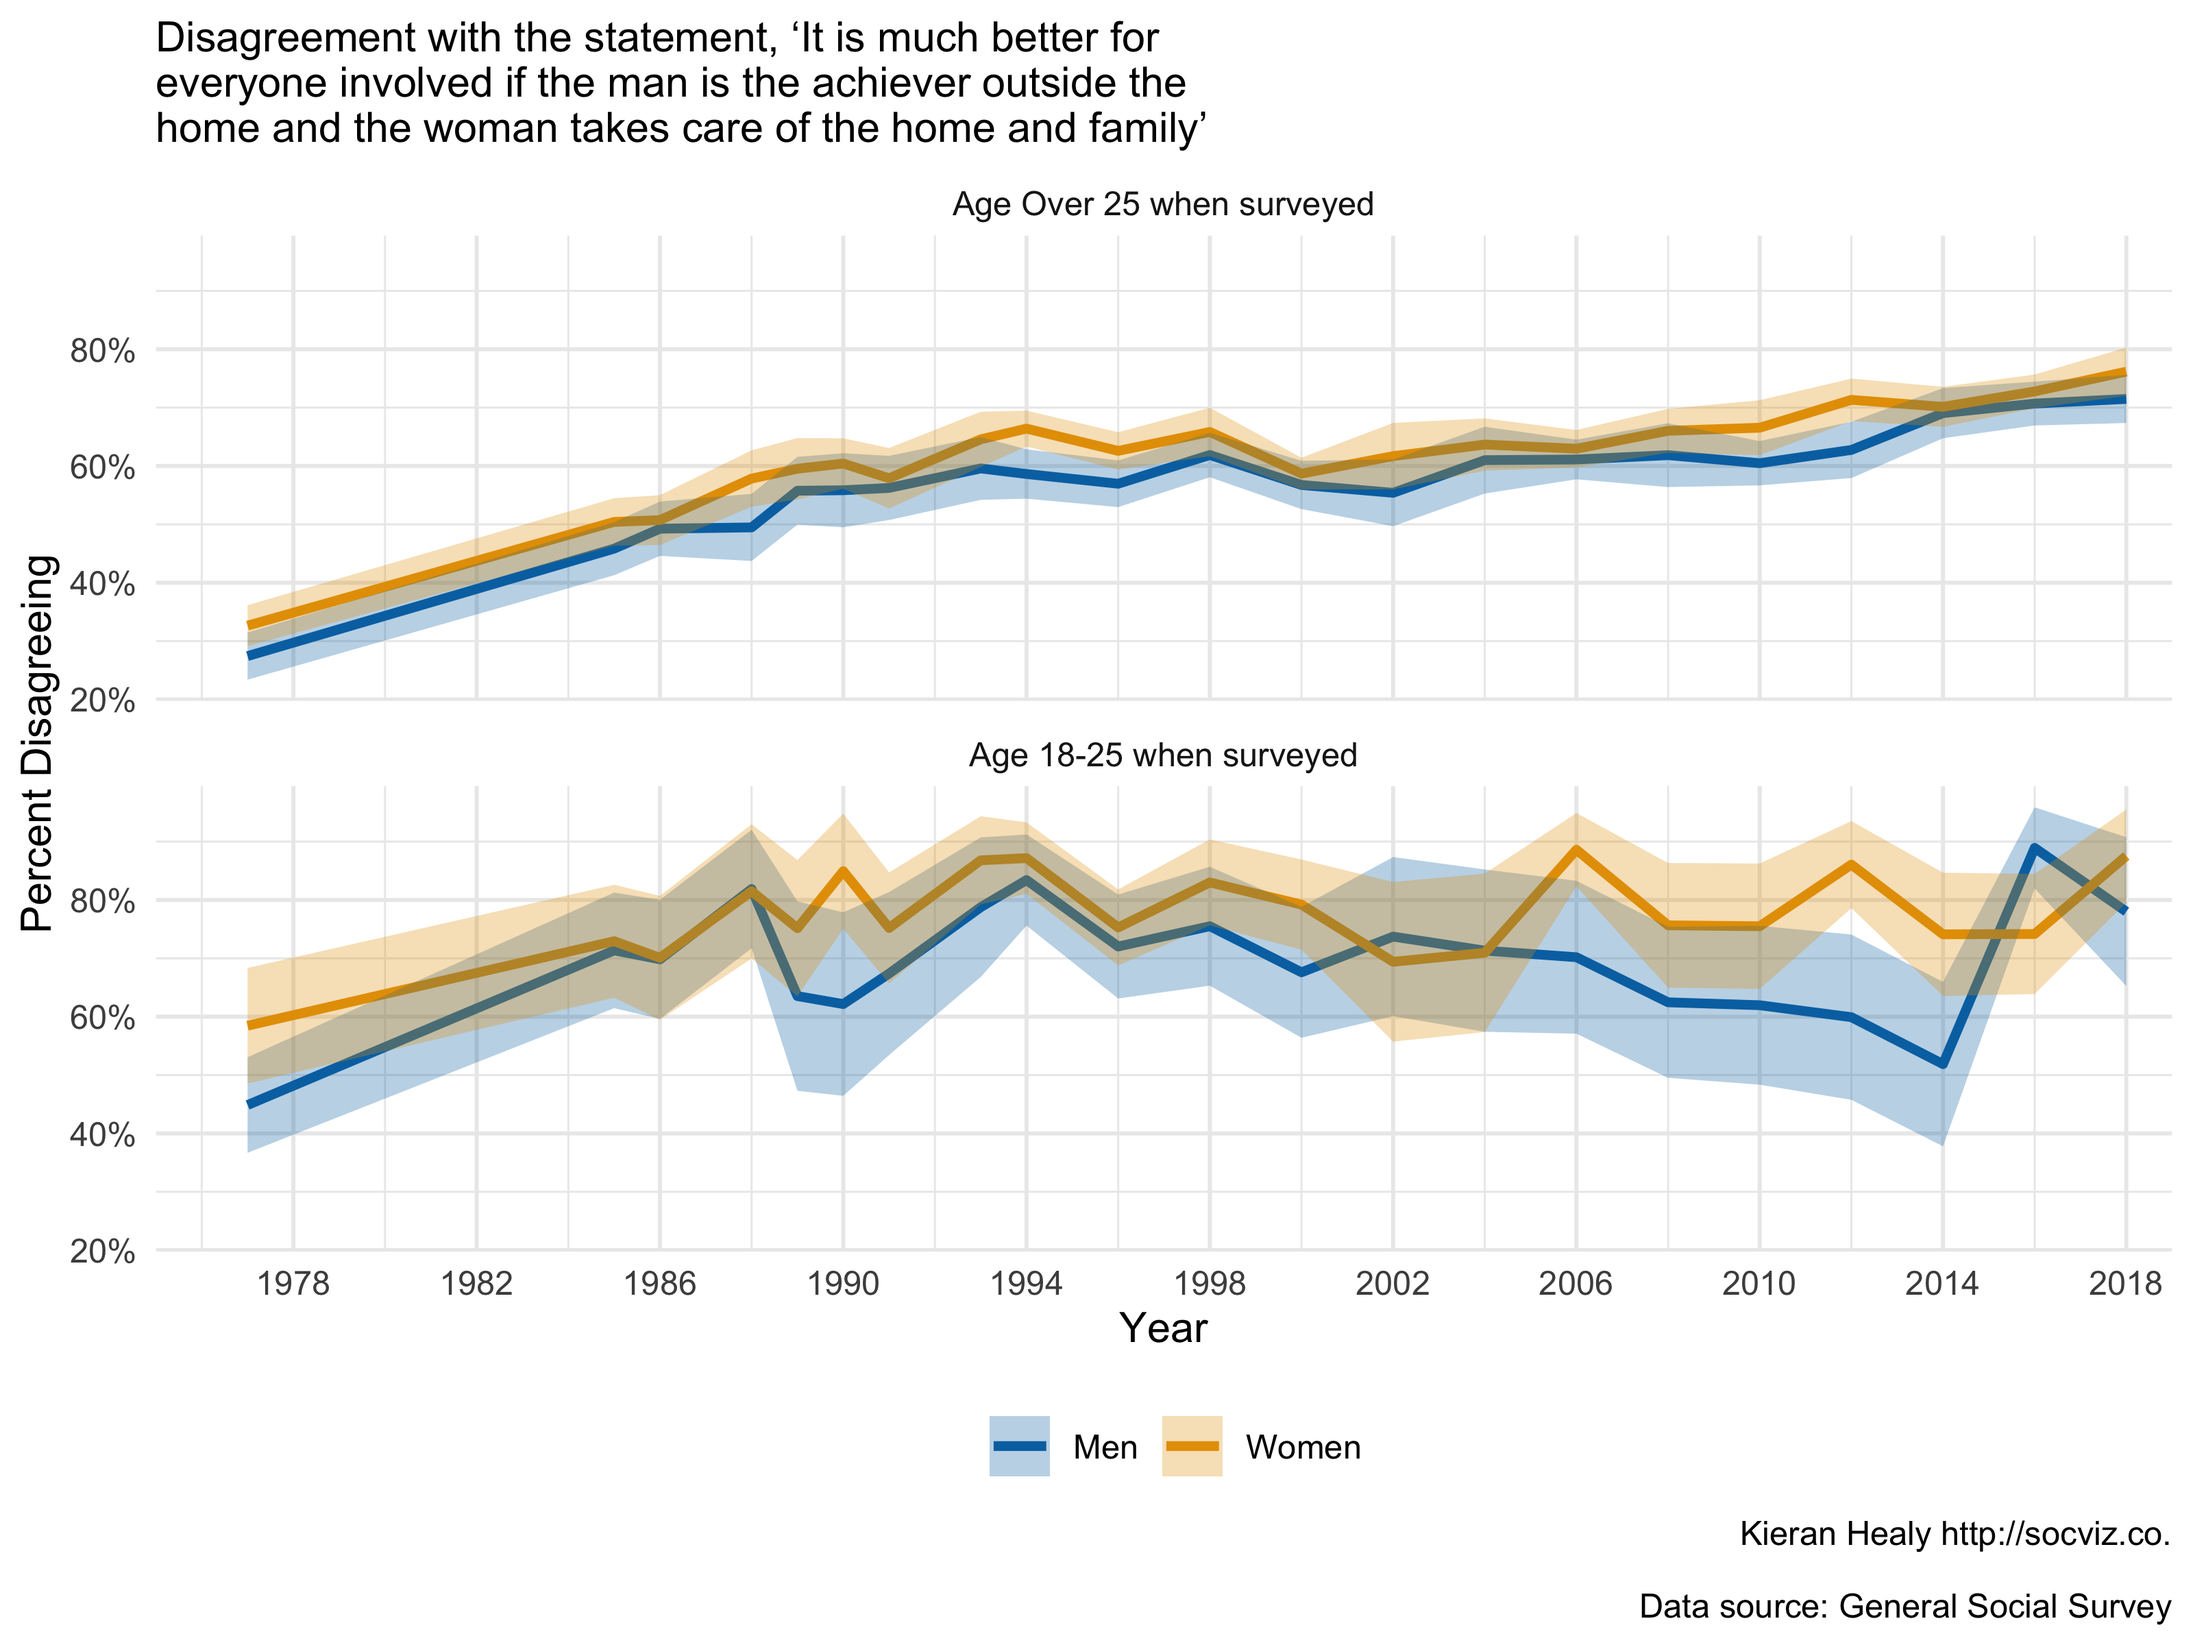
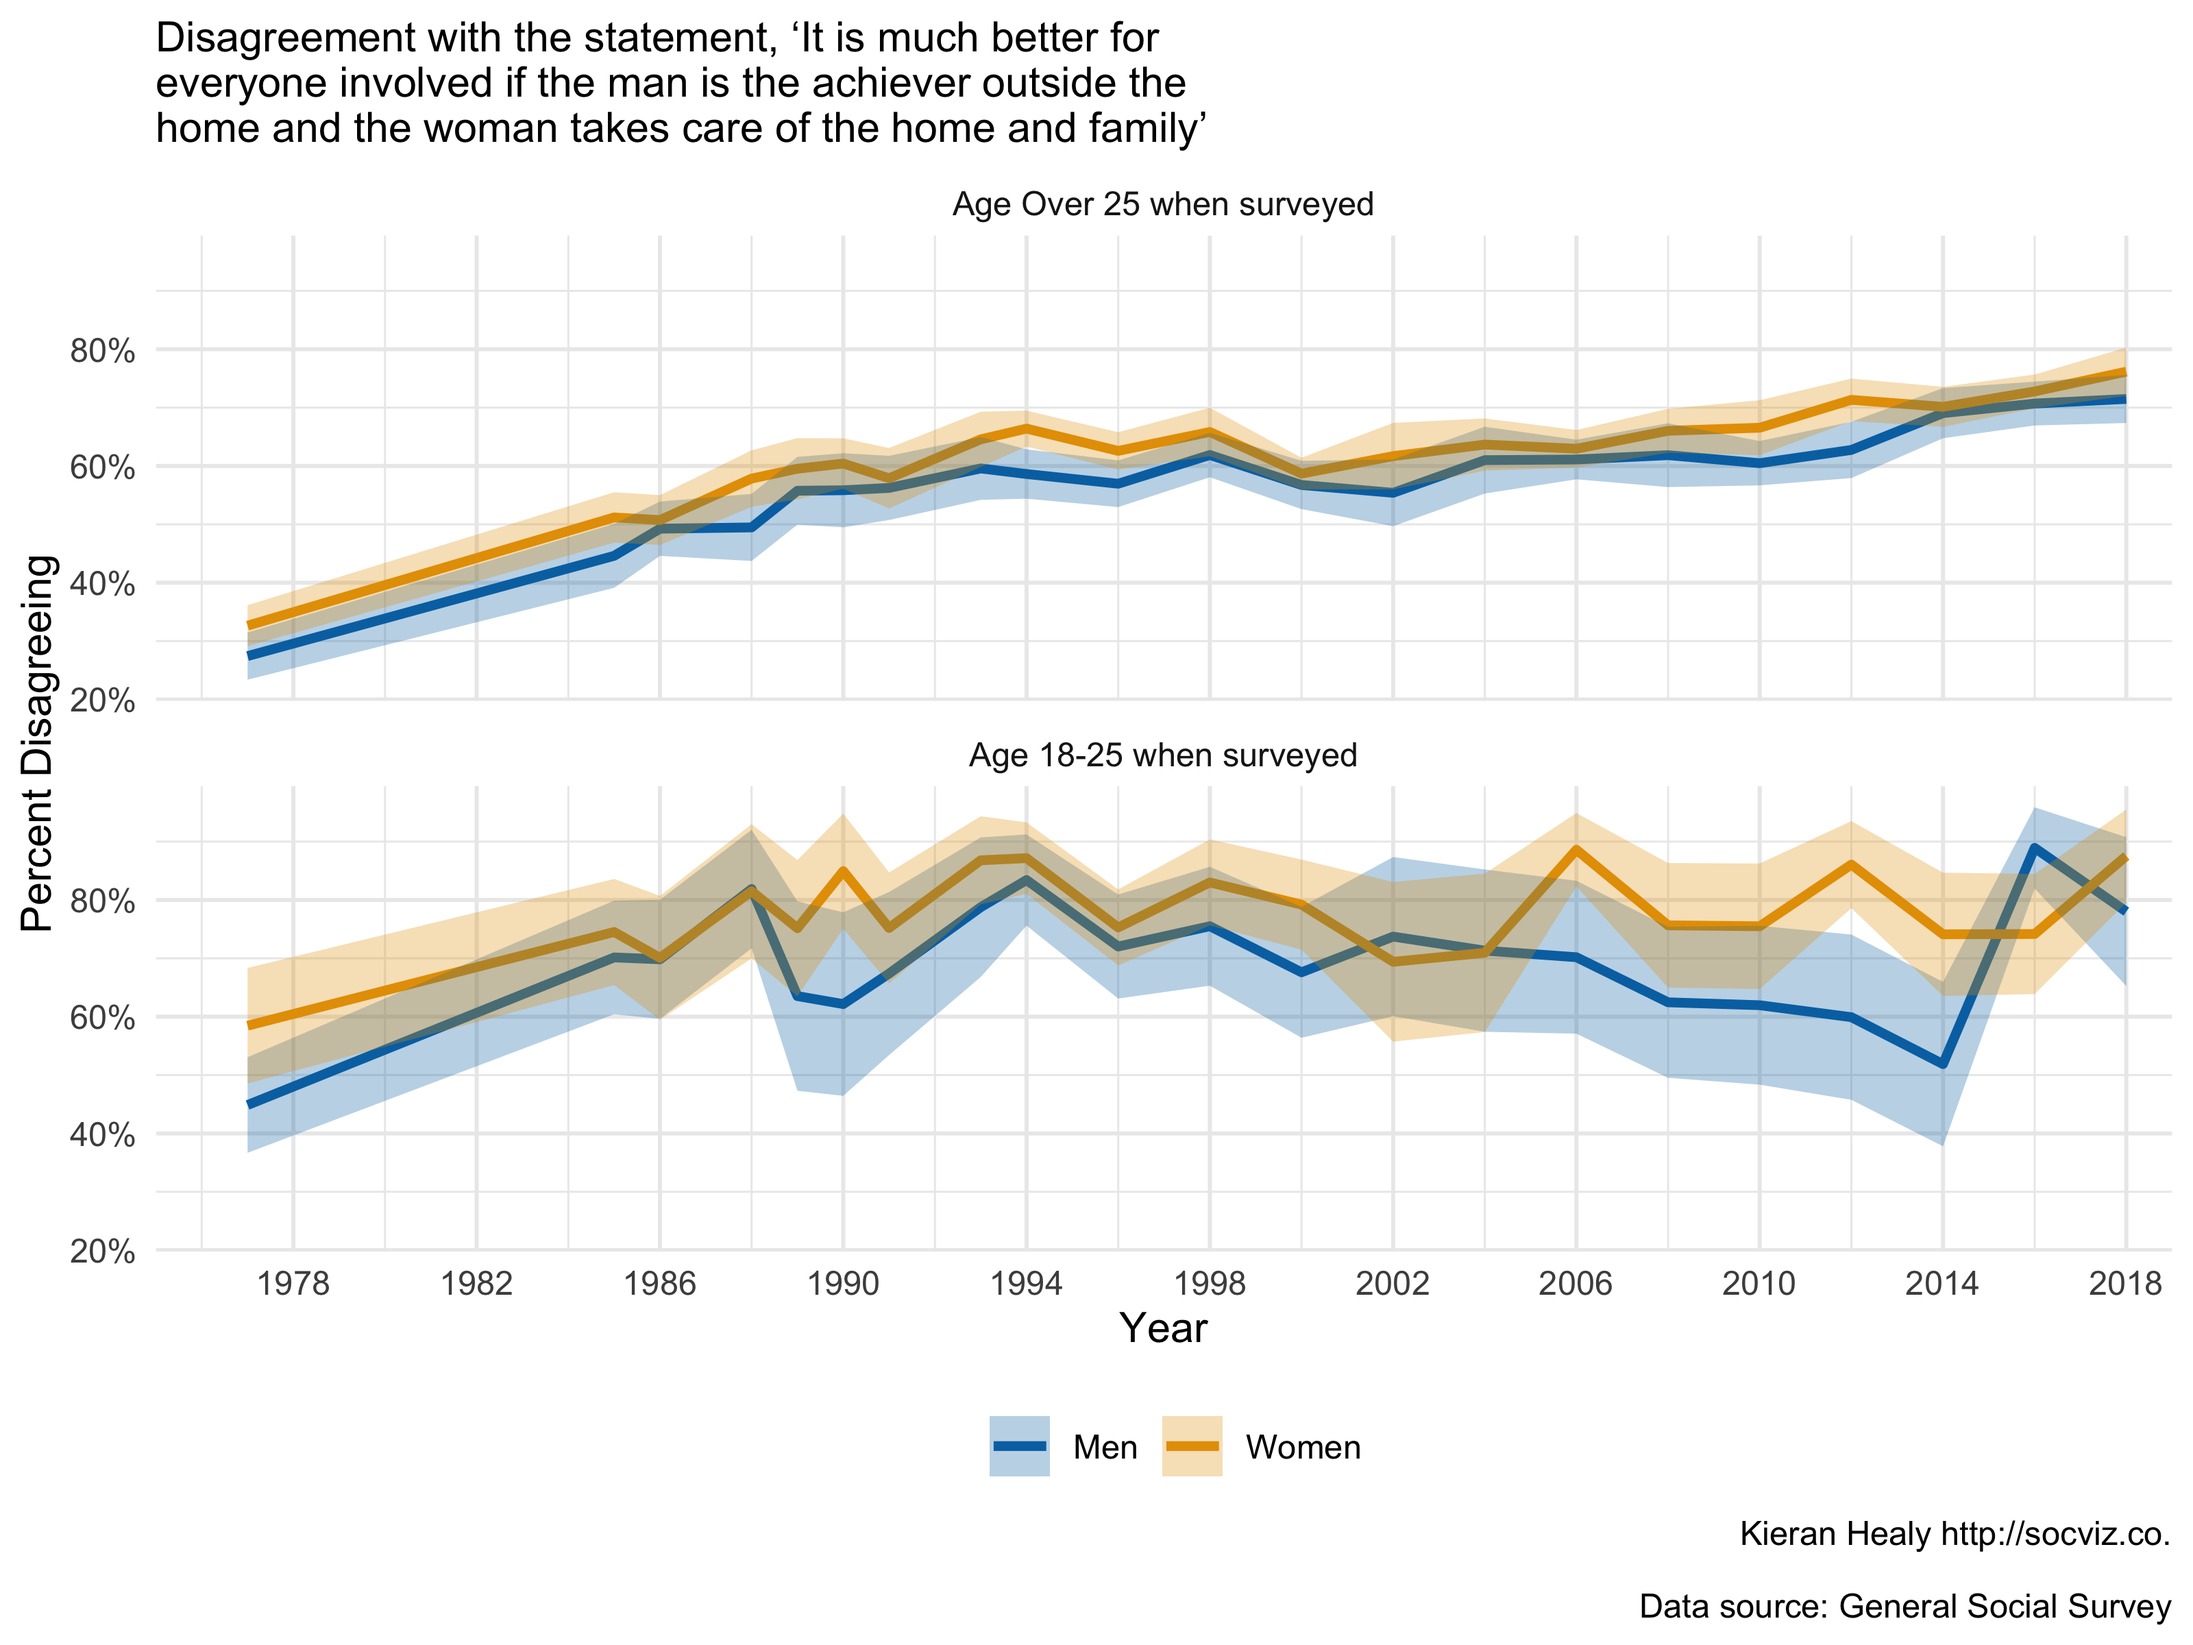
Built site for gssr: 0.3.6@abe949b

Changed region(s): [[0.1562, 0.5312, 0.3125, 0.6562], [0.125, 0.2812, 0.3125, 0.4062]]

diff --git a/articles/overview.html b/articles/overview.html
@@ -421,7 +421,7 @@
     <span class="fu"><a href="https://dplyr.tidyverse.org/reference/mutate.html" class="external-link">mutate</a></span><span class="op">(</span>stratvar <span class="op">=</span> <span class="fu"><a href="https://rdrr.io/r/base/interaction.html" class="external-link">interaction</a></span><span class="op">(</span><span class="va">year</span>, <span class="va">vstrat</span><span class="op">)</span><span class="op">)</span> <span class="op"><a href="https://magrittr.tidyverse.org/reference/pipe.html" class="external-link">%&gt;%</a></span>
     <span class="fu"><a href="http://gdfe.co/srvyr/reference/as_survey_design.html" class="external-link">as_survey_design</a></span><span class="op">(</span>id <span class="op">=</span> <span class="va">vpsu</span>,
                      strata <span class="op">=</span> <span class="va">stratvar</span>,
-                     weights <span class="op">=</span> <span class="va">wtssall</span>,
+                     weights <span class="op">=</span> <span class="va">compwt</span>,
                      nest <span class="op">=</span> <span class="cn">TRUE</span><span class="op">)</span></code></pre></div>
 <p>The <code>gss_svy</code> object contains the same data as <code>gss_fam</code>, but incorporates information about the sampling structure in a way that the <code>survey</code> package’s functions can work with:</p>
 <div class="sourceCode" id="cb15"><pre class="downlit sourceCode r">
@@ -432,7 +432,7 @@
 <span class="co">#&gt; Sampling variables:</span>
 <span class="co">#&gt;  - ids: vpsu</span>
 <span class="co">#&gt;  - strata: stratvar</span>
-<span class="co">#&gt;  - weights: wtssall</span>
+<span class="co">#&gt;  - weights: compwt</span>
 <span class="co">#&gt; Data variables: year (dbl), id (dbl), ballot (dbl+lbl), age (dbl+lbl), race</span>
 <span class="co">#&gt;   (fct), sex (fct), fefam (fct), vpsu (dbl), vstrat (dbl), oversamp (dbl),</span>
 <span class="co">#&gt;   formwt (dbl), wtssall (dbl), sampcode (dbl), sample (dbl), ageq (fct),</span>
@@ -462,8 +462,8 @@
 <span class="co">#&gt; <span style="color: #BCBCBC;"> 6</span>  <span style="text-decoration: underline;">1</span>977 Female No    Disagree 0.326    0.291    0.361</span>
 <span class="co">#&gt; <span style="color: #BCBCBC;"> 7</span>  <span style="text-decoration: underline;">1</span>977 Female Yes   Agree    0.415    0.316    0.514</span>
 <span class="co">#&gt; <span style="color: #BCBCBC;"> 8</span>  <span style="text-decoration: underline;">1</span>977 Female Yes   Disagree 0.585    0.486    0.684</span>
-<span class="co">#&gt; <span style="color: #BCBCBC;"> 9</span>  <span style="text-decoration: underline;">1</span>985 Male   No    Agree    0.542    0.496    0.587</span>
-<span class="co">#&gt; <span style="color: #BCBCBC;">10</span>  <span style="text-decoration: underline;">1</span>985 Male   No    Disagree 0.458    0.413    0.504</span>
+<span class="co">#&gt; <span style="color: #BCBCBC;"> 9</span>  <span style="text-decoration: underline;">1</span>985 Male   No    Agree    0.554    0.499    0.609</span>
+<span class="co">#&gt; <span style="color: #BCBCBC;">10</span>  <span style="text-decoration: underline;">1</span>985 Male   No    Disagree 0.446    0.391    0.501</span>
 <span class="co">#&gt; <span style="color: #949494;"># … with 158 more rows</span></span></code></pre></div>
 </div>
 <div class="section level3">
